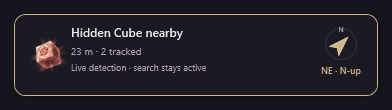
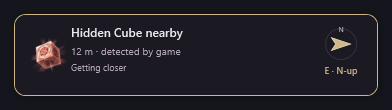
Prepare stable download page with self-signed and administrator notices

diff --git a/docs/index.html b/docs/index.html
@@ -6,6 +6,6 @@
 <section class="showcase" aria-label="Explore EZlay features"><div class="feature-menu" role="tablist" aria-label="Feature examples"><button role="tab" aria-selected="true" aria-controls="feature-panel" id="tab-combat" data-feature="combat"><span>01</span> Understand your fights <b>↗</b></button><button role="tab" aria-selected="false" aria-controls="feature-panel" id="tab-map" data-feature="map" tabindex="-1"><span>02</span> Find your next route <b>↗</b></button><button role="tab" aria-selected="false" aria-controls="feature-panel" id="tab-pets" data-feature="pets" tabindex="-1"><span>03</span> Grow your collection <b>↗</b></button><button role="tab" aria-selected="false" aria-controls="feature-panel" id="tab-alerts" data-feature="alerts" tabindex="-1"><span>04</span> Catch what matters <b>↗</b></button></div><div id="feature-panel" class="feature-panel" role="tabpanel" aria-labelledby="tab-combat"><div class="panel-copy"><p class="eyebrow" id="feature-label">COMBAT, AT A GLANCE</p><h3 id="feature-title">A clearer view of every encounter.</h3><p id="feature-copy">Party damage bars and per-player skill breakdowns help you see where damage came from. Open the details beside your meter, then revisit saved encounters in the app.</p></div><div class="feature-image"><img id="feature-image" src="assets/combat.png" alt="EZlay party damage meter with class icons and damage contribution bars" loading="lazy"></div><p class="image-note" id="feature-note">Actual app interface · sample encounter data</p></div></section>
 <section class="details"><article><p class="eyebrow">MAKE IT YOURS</p><h2>Useful overlays.<br>A lighter touch.</h2><p>Arrange your layout, adjust size and transparency, choose idle artwork and lock overlays in place. The live map has its own lock, so your combat layout stays where you left it.</p><a class="text-link" href="https://github.com/Kinwan96/ezlay/issues">Have an idea? Tell us ↗</a></article><figure><img src="assets/skills.png" alt="Saved encounter with an inline player skill damage breakdown" loading="lazy"><figcaption>Look closer without leaving your encounter history.</figcaption></figure></section>
 <section class="setup" id="setup"><div><p class="eyebrow">FROM INSTALL TO IN-GAME</p><h2>A simple start.</h2></div><ol><li><span>01</span><div><h3>Install EZlay</h3><p>Download the approved Windows installer when available. Your preferences and encounter history live separately from the app files.</p></div></li><li><span>02</span><div><h3>Check capture requirements</h3><p>Combat capture uses <a href="https://npcap.com/#download">Npcap’s official installer ↗</a>. Npcap is installed separately. EZlay checks for it on first launch, links to the official download and lets you recheck without restarting.</p></div></li><li><span>03</span><div><h3>Set your layout and play</h3><p>Choose your overlays, adjust their position and lock them. Future stable updates can be downloaded and installed when you exit.</p></div></li></ol></section>
-<section class="download" id="download"><div><p class="eyebrow">ONE APP. ONE STABLE CHANNEL.</p><h2>Ready for your next session.</h2><p id="release-status" role="status">The first public Windows installer is being prepared and tested.</p><p class="quiet">Windows x64 · free to use · closed-source application</p></div><div class="download-actions"><a id="download-button" class="button unavailable" href="https://github.com/Kinwan96/ezlay/releases" aria-label="View EZlay release availability">View release availability ↗</a><a class="text-link" href="https://github.com/Kinwan96/ezlay/releases">Patch notes ↗</a></div></section>
-<section class="faq" id="questions"><h2>A few things to know.</h2><div><details><summary>Is EZlay free and open source?</summary><p>EZlay is free to use. Its application source code remains private. The public GitHub repository hosts this website, release information and issue reports. Third-party components retain their own licenses.</p></details><details><summary>How will updates work?</summary><p>Only approved stable patches are published. The installed app can check and download updates, then apply a downloaded patch when you choose to exit. There is no public beta update channel.</p></details><details><summary>Are all map markers live?</summary><p>No. The atlas includes documented locations. Cube guidance distinguishes live detections, last-seen detections and mapped locations whose current availability is unknown. Direction is north-up, not camera-relative.</p></details><details><summary>Where are settings and history stored?</summary><p>They are stored on your PC, outside the versioned installation directory. Diagnostic files should be reviewed before you attach them to a public issue.</p></details><details><summary>Is this an official AION 2 app?</summary><p>No. EZlay is an independent fan-made companion and is not affiliated with or endorsed by NCSOFT. AION 2 and game artwork belong to their respective owners. Third-party tool use remains subject to the game’s current rules.</p></details></div></section></main>
+<section class="download" id="download"><div><p class="eyebrow">ONE APP. ONE STABLE CHANNEL.</p><h2>Ready for your next session.</h2><p id="release-status" role="status">Stable downloads, Windows warnings and validation notes are available on GitHub.</p><p class="quiet">Windows x64 · free to use · closed-source application · administrator access required</p><p class="quiet"><strong>Self-signed release:</strong> Windows may show SmartScreen or Unknown publisher warnings. Do not install a root certificate. Live-game, clean-install and installed-upgrade checks are pending; see the release notes.</p></div><div class="download-actions"><a id="download-button" class="button unavailable" href="https://github.com/Kinwan96/ezlay/releases" aria-label="View EZlay release availability">View release availability ↗</a><a class="text-link" href="https://github.com/Kinwan96/ezlay/releases">Patch notes ↗</a></div></section>
+<section class="faq" id="questions"><h2>A few things to know.</h2><div><details><summary>Is EZlay free and open source?</summary><p>EZlay is free to use. Its application source code remains private. The public GitHub repository hosts this website, release information and issue reports. Third-party components retain their own licenses.</p></details><details><summary>How will updates work?</summary><p>Only approved stable patches are published. The installed app can check and download updates, then apply a downloaded patch when you choose to exit. A persistent update notice opens Settings > Updates; Windows tray notifications also announce available patches. There is no public beta update channel.</p></details><details><summary>Are all map markers live?</summary><p>No. The atlas includes documented locations. Cube alerts require a recent game signal and use verified character movement for guidance; static map locations never trigger a cube alert. Direction is north-up, not camera-relative.</p></details><details><summary>Where are settings and history stored?</summary><p>They are stored on your PC, outside the versioned installation directory. Diagnostic files should be reviewed before you attach them to a public issue.</p></details><details><summary>Is this an official AION 2 app?</summary><p>No. EZlay is an independent fan-made companion and is not affiliated with or endorsed by NCSOFT. AION 2 and game artwork belong to their respective owners. Third-party tool use remains subject to the game’s current rules.</p></details></div></section></main>
 <footer><a class="brand" href="#"><img src="assets/logo.svg" width="28" height="28" alt=""><span>EZlay</span></a><p>A little more clarity for your time in Atreia.</p><a href="https://github.com/Kinwan96/ezlay">Downloads & support ↗</a><small>Unofficial AION 2 companion. Game artwork: NCSOFT. Interface examples use sample data.</small></footer><script src="app.js"></script></body></html>

diff --git a/docs/app.js b/docs/app.js
@@ -1,3 +1,3 @@
-const features={combat:{label:'COMBAT, AT A GLANCE',title:'A clearer view of every encounter.',copy:'Party damage bars and per-player skill breakdowns help you see where damage came from. Open the details beside your meter, then revisit saved encounters in the app.',image:'combat.png',alt:'Party damage meter with five class icons and contribution bars',note:'Actual app interface · sample encounter data'},map:{label:'YOUR NEXT FARMING SPOT',title:'Know where to look.',copy:'Explore documented pet, gathering and cube locations. Search and filter the atlas, then bring those choices into a separate live map overlay with its own lock.',image:'map.png',alt:'Interactive AION 2 map with a resource search and filtered location markers',note:'Documented locations · current spawn availability may differ'},pets:{label:'SMALL STEPS. A GROWING COLLECTION.',title:'Make the next soul count.',copy:'See your collection, narrow your farming targets by family and pin your priorities. Nearby pet guidance helps surface the targets you still need.',image:'pets.png',alt:'Pet collection screen with portraits, family colors and progress bars',note:'Actual app interface · sample collection data'},alerts:{label:'A QUIETER WAY TO STAY AWARE',title:'Useful signals, less clutter.',copy:'Get cube guidance with a north-up bearing and a clear difference between live detections and unconfirmed map locations. Configure field boss reminders separately.',image:'cube.png',alt:'Hidden Cube notification with the game icon, distance and northeast compass arrow',note:'North-up direction · mapped locations are labeled unconfirmed'}};
+const features={combat:{label:'COMBAT, AT A GLANCE',title:'A clearer view of every encounter.',copy:'Party damage bars and per-player skill breakdowns help you see where damage came from. Open the details beside your meter, then revisit saved encounters in the app.',image:'combat.png',alt:'Party damage meter with five class icons and contribution bars',note:'Actual app interface · sample encounter data'},map:{label:'YOUR NEXT FARMING SPOT',title:'Know where to look.',copy:'Explore documented pet, gathering and cube locations. Search and filter the atlas, then bring those choices into a separate live map overlay with its own lock.',image:'map.png',alt:'Interactive AION 2 map with a resource search and filtered location markers',note:'Documented locations · current spawn availability may differ'},pets:{label:'SMALL STEPS. A GROWING COLLECTION.',title:'Make the next soul count.',copy:'See your collection, narrow your farming targets by family and pin your priorities. Nearby pet guidance helps surface the targets you still need.',image:'pets.png',alt:'Pet collection screen with portraits, family colors and progress bars',note:'Actual app interface · sample collection data'},alerts:{label:'A QUIETER WAY TO STAY AWARE',title:'Useful signals, less clutter.',copy:'Follow received cube signals with movement-aware distance, north-up direction and getting-closer guidance. Static map locations never trigger alerts. Configure field boss reminders separately.',image:'cube.png',alt:'Hidden Cube notification with the game icon, distance and north-up compass arrow',note:'Live signals + verified movement · horizontal north-up direction'}};
 const tabs=[...document.querySelectorAll('[data-feature]')];function select(tab){const f=features[tab.dataset.feature];tabs.forEach(t=>{const active=t===tab;t.setAttribute('aria-selected',active);t.tabIndex=active?0:-1});document.querySelector('#feature-panel').setAttribute('aria-labelledby',tab.id);for(const [id,value] of [['feature-label',f.label],['feature-title',f.title],['feature-copy',f.copy],['feature-note',f.note]])document.getElementById(id).textContent=value;const image=document.getElementById('feature-image');image.src='assets/'+f.image;image.alt=f.alt}tabs.forEach((tab,i)=>{tab.onclick=()=>select(tab);tab.onkeydown=e=>{let next;if(e.key==='ArrowRight'||e.key==='ArrowDown')next=(i+1)%tabs.length;if(e.key==='ArrowLeft'||e.key==='ArrowUp')next=(i+tabs.length-1)%tabs.length;if(e.key==='Home')next=0;if(e.key==='End')next=tabs.length-1;if(next!==undefined){e.preventDefault();tabs[next].focus();select(tabs[next])}}});
 fetch('https://api.github.com/repos/Kinwan96/ezlay/releases/latest',{headers:{Accept:'application/vnd.github+json'}}).then(r=>r.ok?r.json():null).then(release=>{if(!release||release.draft||release.prerelease)return;const asset=release.assets?.find(a=>/Setup\.exe$/i.test(a.name));if(!asset)return;const button=document.getElementById('download-button');button.href=asset.browser_download_url;button.textContent='Download for Windows ↓';button.classList.remove('unavailable');document.getElementById('release-status').textContent='Stable release '+release.tag_name+' is available.'}).catch(()=>{});

diff --git a/README.md b/README.md
@@ -22,10 +22,10 @@ EZlay is **free to use and closed source**. This repository contains the website
 
 ## Requirements & support
 
-Windows x64. Combat capture uses Npcap, installed separately from [the official Npcap site](https://npcap.com/#download). Map markers are documented locations, not guaranteed live spawns. Cube arrows are north-up, not camera-relative.
+Windows x64. Normal launches request administrator access for game input and menu detection. Combat capture uses Npcap, installed separately from [the official Npcap site](https://npcap.com/#download). Map markers are documented locations, not guaranteed live spawns. Cube arrows are north-up, not camera-relative.
 
 When reporting a bug, include the app version, expected behavior and reproduction steps. Review screenshots and logs before posting; do not attach character databases, raw captures, credentials or private account information.
 
 ## Attribution
 
-EZlay is unofficial and is not affiliated with or endorsed by NCSOFT. AION 2 and game artwork belong to their respective owners. Third-party components retain their licenses; notices will be included with the installer. Public application distribution remains subject to release and asset review.
+EZlay is unofficial and is not affiliated with or endorsed by NCSOFT. AION 2 and game artwork belong to their respective owners. Third-party components retain their licenses; notices will be included with the installer. Current releases are self-signed: Windows may show SmartScreen or Unknown publisher warnings. Never install a root certificate to run EZlay. Live-game, clean-install and installed-upgrade checks remain pending; see each release’s validation notes.
